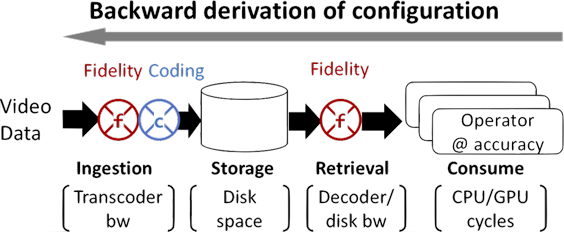
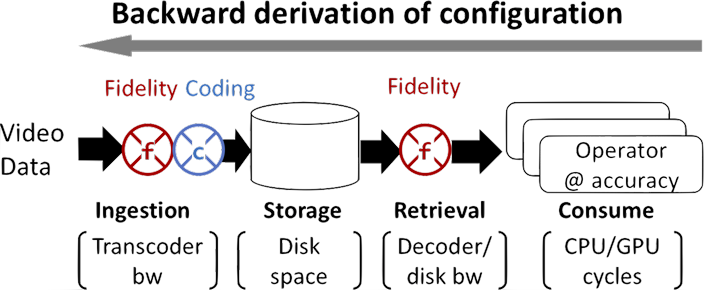
up

diff --git a/p/vstore/index.md b/p/vstore/index.md
@@ -3,7 +3,7 @@
 ### Overview
 We present VStore, a data store for supporting fast, resource efficient analytics over large archival videos.
 <p align="center">
-<img src="./concept.png" title="An Overview of VStore">
+<img src="./concept-transparent.png" title="An Overview of VStore">
 </p>
 
 * VStore manages video ingestion, storage, retrieval, and consumption, and controls video formats along the video data path.
